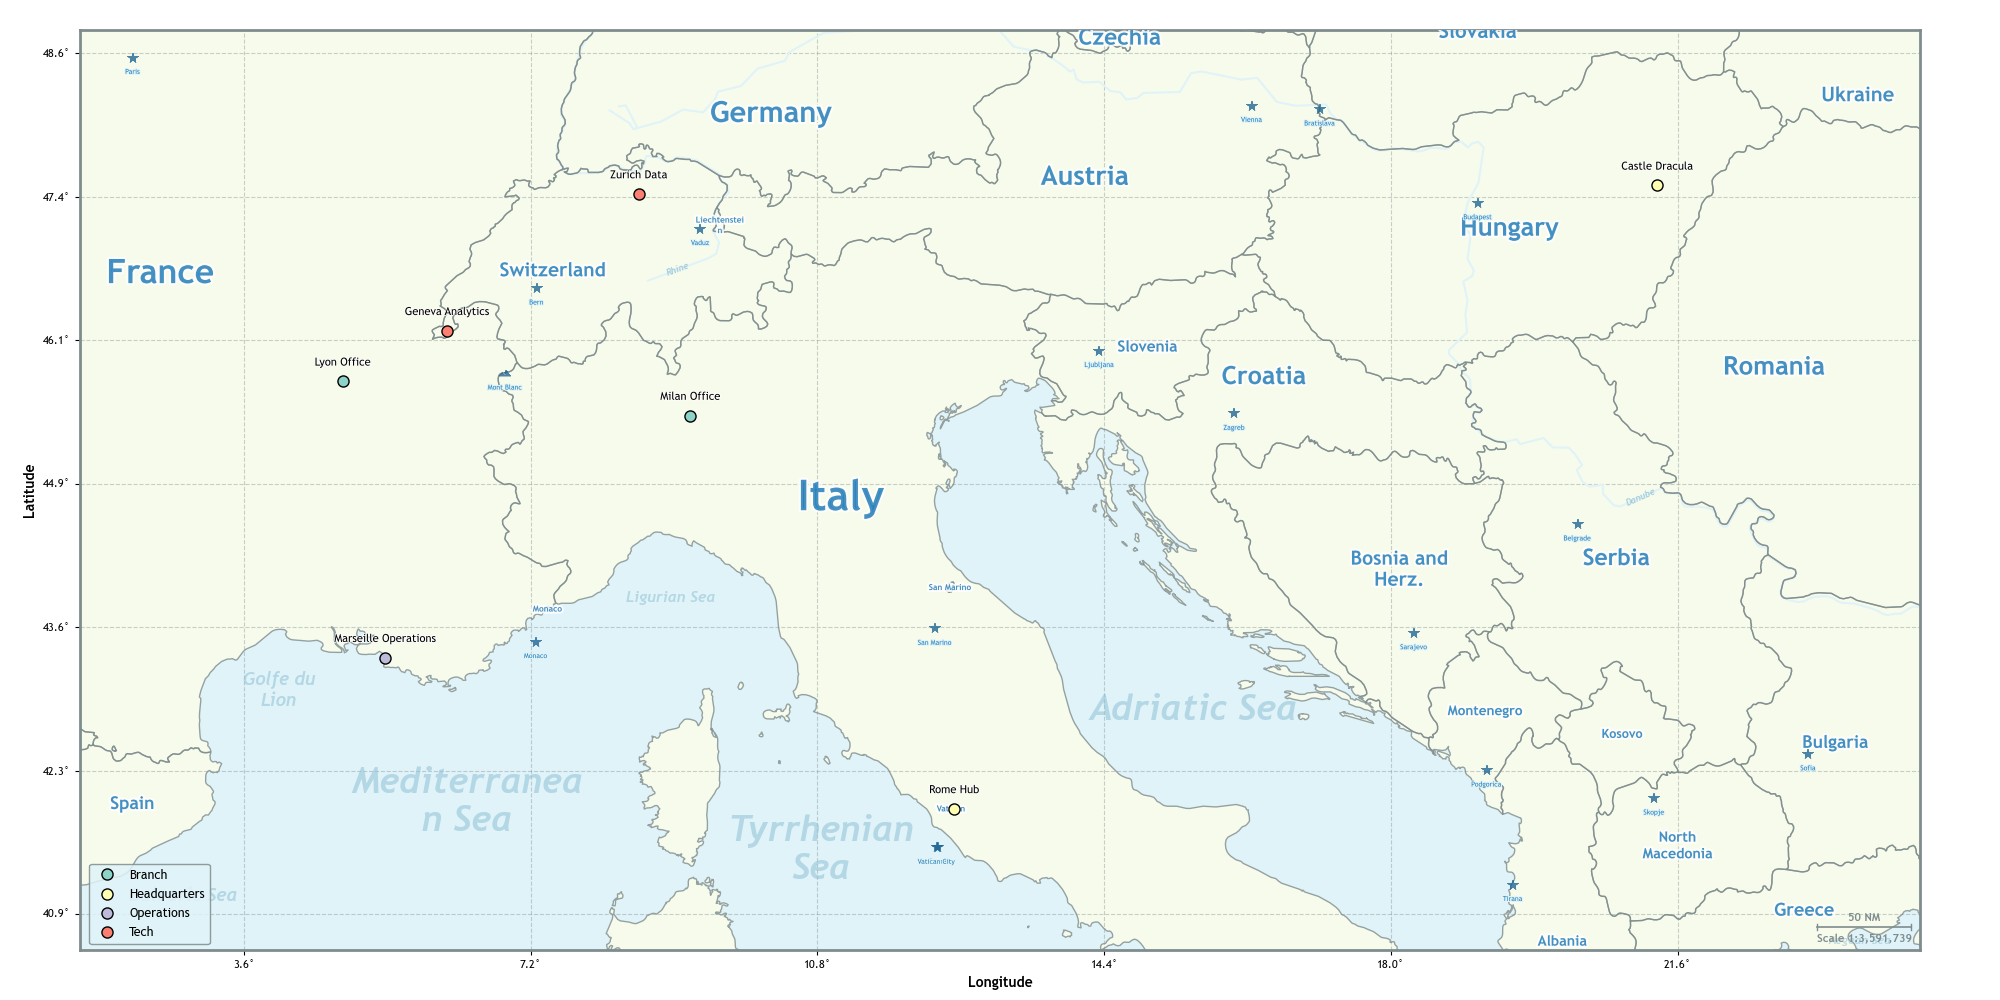
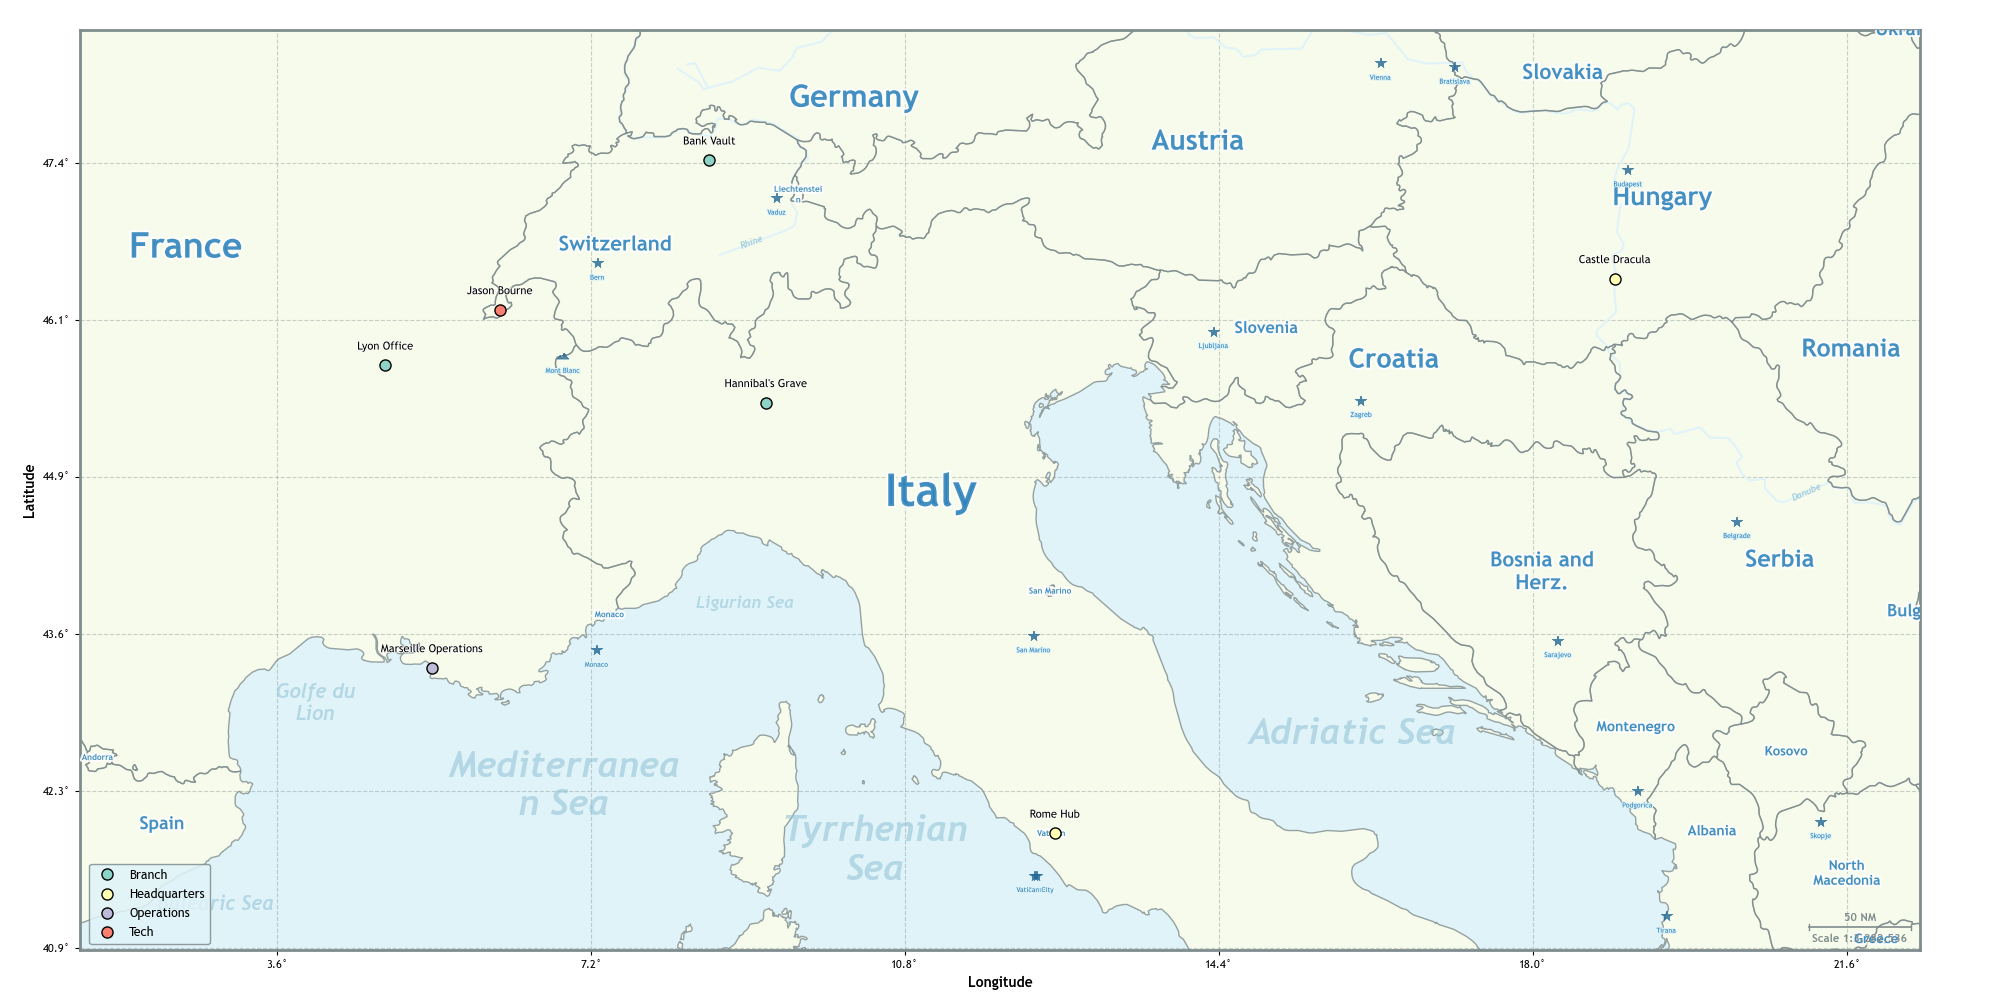
housekeeping 2.0

diff --git a/README.md b/README.md
@@ -7,12 +7,12 @@ A lightweight, purely Python-based tool for rendering beautiful, publication-rea
 ### Normal Fit Mode (Strict 2:1 Ratio)
 By default, the map generator enforces strict bounding box constraints (e.g., 20x10 inches), intelligently padding your map data to fit the required aspect ratio perfectly.
 
-![Normal Map](images/map.png)
+![Normal Map](images/map_normal.png)
 
 ### Dynamic Fit Mode
 Alternatively, you can allow the map to dynamically snap to the exact aspect ratio of your data points, ensuring minimal whitespace and a tightly fitted layout.
 
-![Dynamic Map](images/map-dark.png)
+![Dynamic Map](images/map_dynamic.png)
 
 ## Features
 * **Zero Heavy GIS Dependencies**: Relies entirely on `matplotlib` and Python's standard `json`/`math` libraries (no `geopandas`, `GDAL`, or `rasterio` required).
